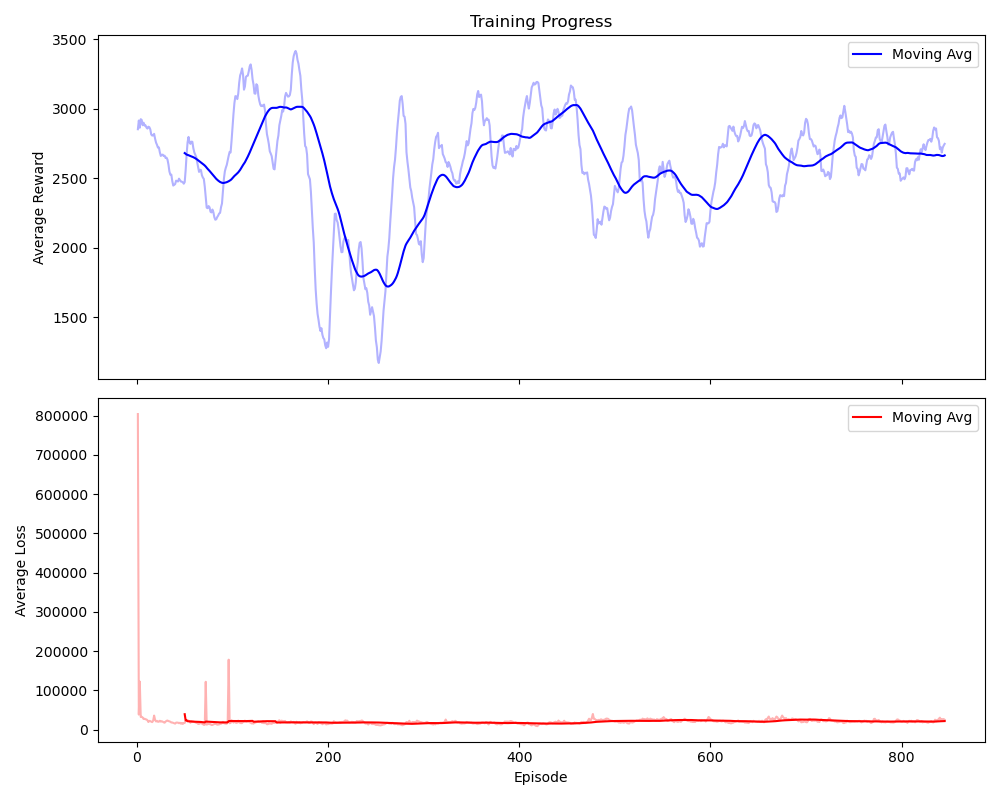
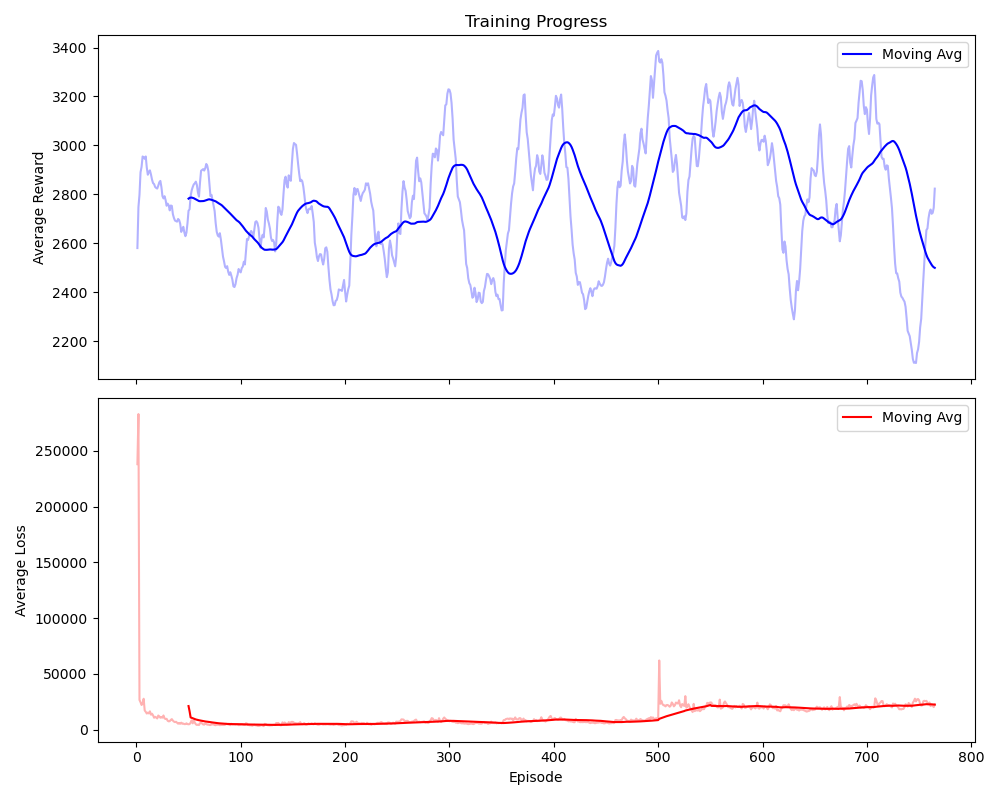
inmplement the polyak averaging and then change to smoothl1loss

diff --git a/src/value_decomposition.py b/src/value_decomposition.py
@@ -12,15 +12,15 @@ import time
 import traceback
 
 # Hyperparameters
-C = 1000 # Target Q network update interval
 L = 5000 # Number of episodes to train for
-K = 64 # Minibatch size
+K = 2 # Minibatch size
 M = 100 # Number of steps per episode
 E = 0.90 # Initial epsilon
 S = 30000 # Experience replay buffer size
 EPSILON_DECAY_FACTOR = 0.999 # Epsilon decay factor
 MIN_EPSILON = 0.05 # Minimum epsilon
 GAMMA = 0.99 # Discount factor
+TAU = 0.005 # Polyak averaging factor
 
 assert K >= 2, "Minibatch size must be greater than 1"
 
@@ -207,7 +207,7 @@ if __name__ == "__main__":
     simulator: Simulator = Simulator(19, 500, M, seed=initial_seed)
     simulator.step(0)
     optimizer = torch.optim.AdamW(params=q_net.parameters(), lr=1e-4)
-    loss_fn = torch.nn.HuberLoss(reduction="none")
+    loss_fn = torch.nn.SmoothL1Loss(reduction="none")
     for episode in range(1, L):
         print(f"Starting episode: {episode}!")
         for step in range(M):
@@ -330,22 +330,14 @@ if __name__ == "__main__":
                 optimizer.step()
 
                 kpi_list.append((episode, loss_for_backprop.item(), batch_reward_sum.squeeze().mean().item(), epsilon))
-        
+
+            # Polyak averaging
+            for target_param, online_param in zip(target_q_net.parameters(), q_net.parameters()):
+                target_param.data.copy_(TAU * online_param.data + (1.0 - TAU) * target_param.data)
         print(f"Ended episode!")
         epsilon = max(epsilon * EPSILON_DECAY_FACTOR, MIN_EPSILON)
         print(f"Restarting simulator with seed {initial_seed + episode}")
         simulator.reset(initial_seed + episode)
-
-        # Update target Q parameters
-        if episode % C == 0:
-            print("Attemping to update target Q parameters...")
-            try:
-                target_q_net.load_state_dict(q_net.state_dict())
-            except Exception as e:
-                print("An error occurred:")
-                traceback.print_exc()
-            finally:
-                print("Target Q parameters successfully updated!")
 
         # Saving some stuff
         if episode % 20 == 0: